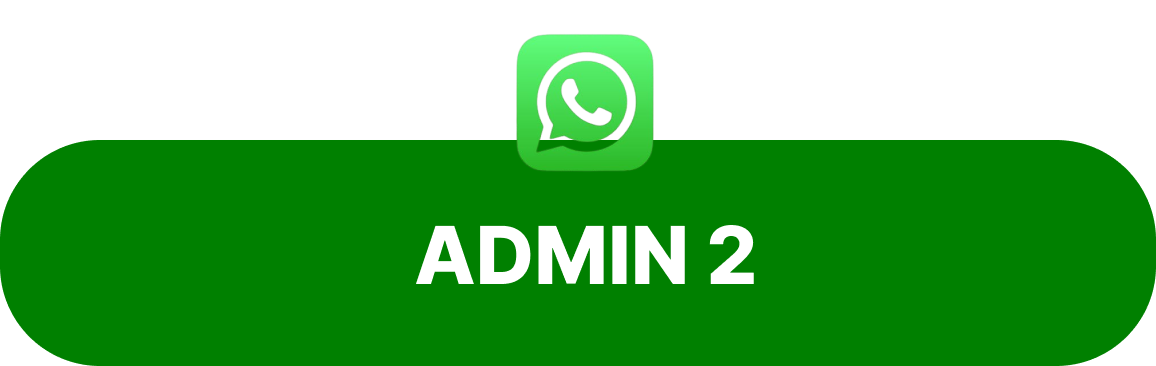
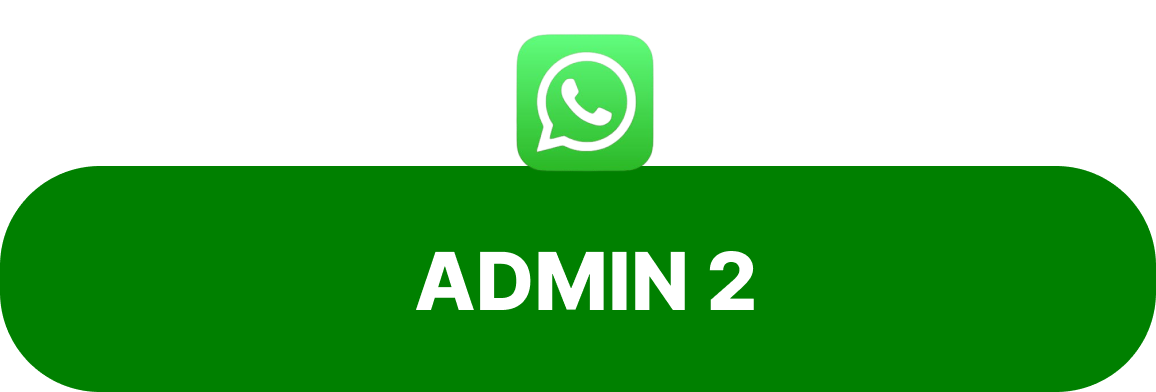
jokiit.v6

diff --git a/index.html b/index.html
@@ -31,23 +31,24 @@
             top: 10%;
             left: 50%;
             transform: translateX(-50%);
-            width: 90%;
+            /* width: 90%; */
         }
 
         .logo {
-            width: 100%;
-            max-width: 300px; /* Adjust max width for mobile */
+            /* width: 100%; */
+            max-width: 500px; /* Adjust max width for mobile */
         }
 
         .jokiit img {
-            width: 100%;
-            max-width: 150px; /* Adjust max width for mobile */
+            /* width: 100%; */
+            /* max-width: 500px; Adjust max width for mobile */
             height: auto;
             margin: 10px 0;
         }
 
         .foto {
             margin: 10px 0;
+            width: 600px;
         }
 
         @media (min-width: 100px) {
